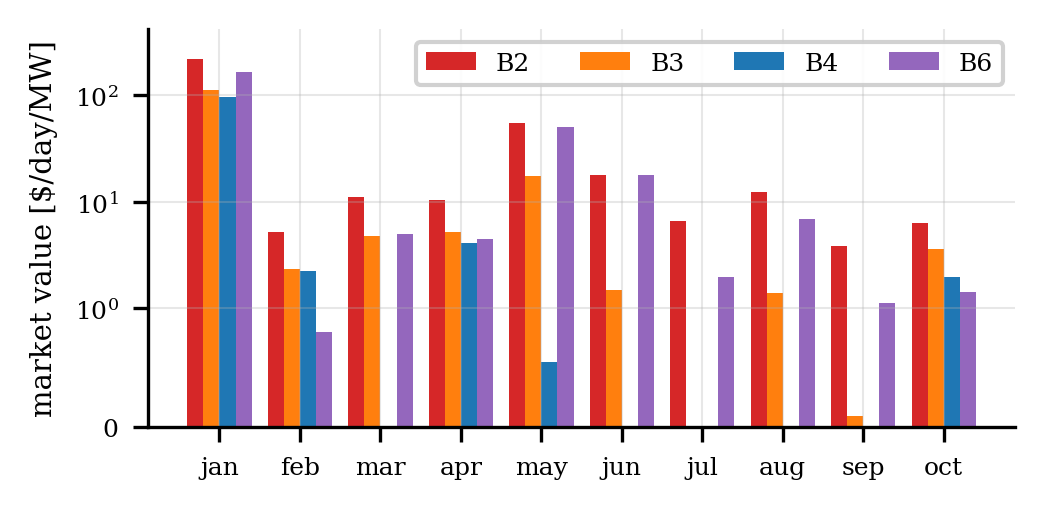
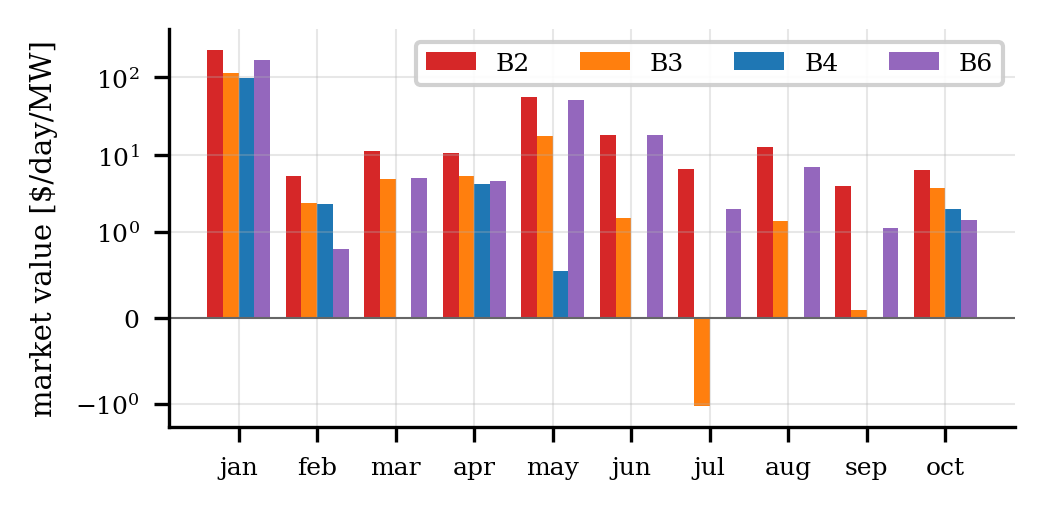
paper v6: main table 12 columns (+Warm starts/day); weekly fig ylim from negative
- Warm column ties the table to the certificate validation narrative (boundary
  starts); honest zeros for non-thermal participants; footnote added
- weekly market-value bars: ylim (-2, 420) symlog with zero line, so B3's
  negative July week (-1.07 $/day) is visible instead of clipped

diff --git a/paper/sections/experiments.tex b/paper/sections/experiments.tex
@@ -96,7 +96,7 @@ the proposed certified participant.}
 \label{tab:summary}
 \setlength{\tabcolsep}{4pt}
 \scriptsize
-\begin{tabular*}{\textwidth}{@{\extracolsep{\fill}}llrrrrrrrrr}
+\begin{tabular*}{\textwidth}{@{\extracolsep{\fill}}llrrrrrrrrrr}
 \toprule
 \textbf{Block} & \textbf{Method}
 & \textbf{Revenue}
@@ -104,45 +104,48 @@ the proposed certified participant.}
 & \textbf{Penalty}
 & \textbf{$\Delta$Wear$^{\ddagger}$}
 & \textbf{Shortfall}
+& \textbf{Warm$^{\S}$}
 & \textbf{MV (\$/day)}
 & \textbf{Committed}
 & \textbf{Delivery}
 & \textbf{Violations:} \\
- & & (\$/day) & (\$/day) & (\$/day) & (\$/day) & (kWh/day) & mean $\pm$ std
- & (kW/day) & ratio & days (max K) \\
+ & & (\$/day) & (\$/day) & (\$/day) & (\$/day) & (kWh/day) & (/day)
+ & mean $\pm$ std & (kW/day) & ratio & days (max K) \\
 \midrule
 \multirow{6}{*}{Ten-week average}
-& Idle (B1)            & $0.00$  & $0.00$  & $0.00$  & $0.00$ (ref.) & $0.00$ & $0.0 \pm 0.0$    & $0$    & --     & 5 (0.25)$^{\dagger}$ \\
-& Det.\ envelope (B2)  & $37.24$ & $-1.05$ & $1.49$  & $+1.71$ & $5.52$ & $35.1 \pm 126.2$  & $388$  & $0.81$ & $229$ ($9.8$) \\
-& Sample approx.\ (B3) & $15.65$ & $-0.22$ & $0.25$  & $+0.69$ & $0.42$ & $14.9 \pm 63.0$  & $126$  & $0.96$ & $47$ ($4.9$) \\
-& \textbf{ENCORE (B4)} & $9.65$  & $-0.15$ & $0.17$  & $\mathbf{-0.98}$ & $0.30$ & $\mathbf{10.6 \pm 52.9}$ & $54$ & $0.93$
+& Idle (B1)            & $0.00$  & $0.00$  & $0.00$  & $0.00$ (ref.) & $0.00$ & $0.00$ & $0.0 \pm 0.0$    & $0$    & --     & 5 (0.25)$^{\dagger}$ \\
+& Det.\ envelope (B2)  & $37.24$ & $-1.05$ & $1.49$  & $+1.71$ & $5.52$ & $0.20$ & $35.1 \pm 126.2$  & $388$  & $0.81$ & $229$ ($9.8$) \\
+& Sample approx.\ (B3) & $15.65$ & $-0.22$ & $0.25$  & $+0.69$ & $0.42$ & $0.08$ & $14.9 \pm 63.0$  & $126$  & $0.96$ & $47$ ($4.9$) \\
+& \textbf{ENCORE (B4)} & $9.65$  & $-0.15$ & $0.17$  & $\mathbf{-0.98}$ & $0.30$ & $0.07$ & $\mathbf{10.6 \pm 52.9}$ & $54$ & $0.93$
   & $\mathbf{0}$ \textbf{in-dom.}, 10 bey.\ ($1.6$) \\
-& Battery (B5)         & $16.07$ & $0.00$  & $0.00$  & $0.00$  & $0.00$ & $6.5 \pm 47.8$   & $616$  & $1.00$ & $0$ ($0.0$) \\
-& Curtailment (B6)     & $29.14$ & $0.00$  & $0.00$  & $0.00$  & $0.00$ & $25.6 \pm 96.1$  & $333$  & $1.00$ & $0$ ($0.0$) \\
+& Battery (B5)         & $16.07$ & $0.00$  & $0.00$  & $0.00$  & $0.00$ & $0.00$ & $6.5 \pm 47.8$   & $616$  & $1.00$ & $0$ ($0.0$) \\
+& Curtailment (B6)     & $29.14$ & $0.00$  & $0.00$  & $0.00$  & $0.00$ & $0.00$ & $25.6 \pm 96.1$  & $333$  & $1.00$ & $0$ ($0.0$) \\
 \midrule
 \multirow{6}{*}{Scarcity week (Heather)}
-& Idle (B1)            & $0.00$   & $0.00$  & $0.00$   & $0.00$ (ref.) & $0.00$ & $0.0 \pm 0.0$     & $0$       & --     & $0$ ($0.0$) \\
-& Det.\ envelope (B2)  & $241.58$ & $-0.28$ & $11.78$  & $+8.16$ & $22.87$ & $221.9 \pm 337.5$ & $1{,}220$ & $0.77$ & $57$ ($9.0$) \\
-& Sample approx.\ (B3) & $112.67$ & $-0.23$ & $2.23$   & $-2.98$ & $3.04$ & $113.6 \pm 166.8$ & $541$     & $0.93$ & $15$ ($4.9$) \\
-& \textbf{ENCORE (B4)} & $91.92$  & $-0.17$ & $1.65$   & $\mathbf{-6.67}$ & $2.52$ & $\mathbf{97.1 \pm 140.4}$ & $414$ & $0.92$
+& Idle (B1)            & $0.00$   & $0.00$  & $0.00$   & $0.00$ (ref.) & $0.00$ & $0.00$ & $0.0 \pm 0.0$     & $0$       & --     & $0$ ($0.0$) \\
+& Det.\ envelope (B2)  & $241.58$ & $-0.28$ & $11.78$  & $+8.16$ & $22.87$ & $0.61$ & $221.9 \pm 337.5$ & $1{,}220$ & $0.77$ & $57$ ($9.0$) \\
+& Sample approx.\ (B3) & $112.67$ & $-0.23$ & $2.23$   & $-2.98$ & $3.04$ & $0.25$ & $113.6 \pm 166.8$ & $541$     & $0.93$ & $15$ ($4.9$) \\
+& \textbf{ENCORE (B4)} & $91.92$  & $-0.17$ & $1.65$   & $\mathbf{-6.67}$ & $2.52$ & $0.58$ & $\mathbf{97.1 \pm 140.4}$ & $414$ & $0.92$
   & $\mathbf{0}$ \textbf{in-dom.}, 5 bey.\ ($1.6$) \\
-& Battery (B5)         & $89.24$  & $0.00$  & $0.00$   & $0.00$  & $0.00$ & $76.5 \pm 126.4$  & $764$     & $1.00$ & $0$ ($0.0$) \\
-& Curtailment (B6)     & $176.20$ & $0.00$  & $0.00$   & $0.00$  & $0.00$ & $166.2 \pm 255.5$ & $871$     & $1.00$ & $0$ ($0.0$) \\
+& Battery (B5)         & $89.24$  & $0.00$  & $0.00$   & $0.00$  & $0.00$ & $0.00$ & $76.5 \pm 126.4$  & $764$     & $1.00$ & $0$ ($0.0$) \\
+& Curtailment (B6)     & $176.20$ & $0.00$  & $0.00$   & $0.00$  & $0.00$ & $0.00$ & $166.2 \pm 255.5$ & $871$     & $1.00$ & $0$ ($0.0$) \\
 \midrule
 \multirow{6}{*}{Shoulder week (April)}
-& Idle (B1)            & $0.00$ & $0.00$  & $0.00$ & $0.00$ (ref.) & $0.00$ & $0.0 \pm 0.0$   & $0$    & --     & $0$ ($0.0$) \\
-& Det.\ envelope (B2)  & $9.61$ & $-1.81$ & $0.20$ & $+0.75$ & $3.21$ & $10.5 \pm 13.3$ & $296$  & $0.85$ & $16$ ($6.3$) \\
-& Sample approx.\ (B3) & $3.97$ & $-1.30$ & $0.00$ & $+0.01$ & $0.05$ & $5.3 \pm 8.4$   & $112$  & $0.99$ & $2$ ($1.4$) \\
-& \textbf{ENCORE (B4)} & $1.62$ & $-1.25$ & $0.01$ & $\mathbf{-1.26}$ & $0.11$ & $\mathbf{4.1 \pm 6.4}$ & $52$ & $0.97$
+& Idle (B1)            & $0.00$ & $0.00$  & $0.00$ & $0.00$ (ref.) & $0.00$ & $0.00$ & $0.0 \pm 0.0$   & $0$    & --     & $0$ ($0.0$) \\
+& Det.\ envelope (B2)  & $9.61$ & $-1.81$ & $0.20$ & $+0.75$ & $3.21$ & $0.16$ & $10.5 \pm 13.3$ & $296$  & $0.85$ & $16$ ($6.3$) \\
+& Sample approx.\ (B3) & $3.97$ & $-1.30$ & $0.00$ & $+0.01$ & $0.05$ & $0.09$ & $5.3 \pm 8.4$   & $112$  & $0.99$ & $2$ ($1.4$) \\
+& \textbf{ENCORE (B4)} & $1.62$ & $-1.25$ & $0.01$ & $\mathbf{-1.26}$ & $0.11$ & $0.07$ & $\mathbf{4.1 \pm 6.4}$ & $52$ & $0.97$
   & $\mathbf{0}$ ($0.0$) \\
-& Battery (B5)         & $5.03$ & $0.00$  & $0.00$ & $0.00$  & $0.00$ & $-4.2 \pm 3.3$  & $807$  & $1.00$ & $0$ ($0.0$) \\
-& Curtailment (B6)     & $6.57$ & $0.00$  & $0.00$ & $0.00$  & $0.00$ & $4.5 \pm 6.3$   & $200$  & $1.00$ & $0$ ($0.0$) \\
+& Battery (B5)         & $5.03$ & $0.00$  & $0.00$ & $0.00$  & $0.00$ & $0.00$ & $-4.2 \pm 3.3$  & $807$  & $1.00$ & $0$ ($0.0$) \\
+& Curtailment (B6)     & $6.57$ & $0.00$  & $0.00$ & $0.00$  & $0.00$ & $0.00$ & $4.5 \pm 6.3$   & $200$  & $1.00$ & $0$ ($0.0$) \\
 \bottomrule
-\multicolumn{11}{l}{\footnotesize $^{\dagger}$Exogenous summer workload-tail
+\multicolumn{12}{l}{\footnotesize $^{\dagger}$Exogenous summer workload-tail
 days exceeding the plant's sizing with no market participation; identical for
 B4. $^{\ddagger}$Degradation cost relative to Idle: negative means
 participation \emph{reduces} hotspot wear (the pre-cooled hours run colder
-than the nominal point).}
+than the nominal point). $^{\S}$Warm starts: activated obligations beginning
+at the envelope boundary (\S\ref{subsec:cert}); zero for participants without
+thermal events.}
 \end{tabular*}
 \vspace{-5mm}
 \end{table*}

diff --git a/experiments/paper_figures.py b/experiments/paper_figures.py
@@ -143,7 +143,8 @@ def fig_weekly_mv():
     ax.set_xticklabels([w.split("-")[1][:3] for w in weeks], fontsize=6.5)
     ax.set_ylabel("market value [$/day/MW]", fontsize=7)
     ax.set_yscale("symlog", linthresh=1.0)
-    ax.set_ylim(0, 420)
+    ax.set_ylim(-2, 420)
+    ax.axhline(0, color="0.4", lw=0.5)
     ax.tick_params(labelsize=6)
     ax.legend(fontsize=6, ncol=4)
     fig.tight_layout()